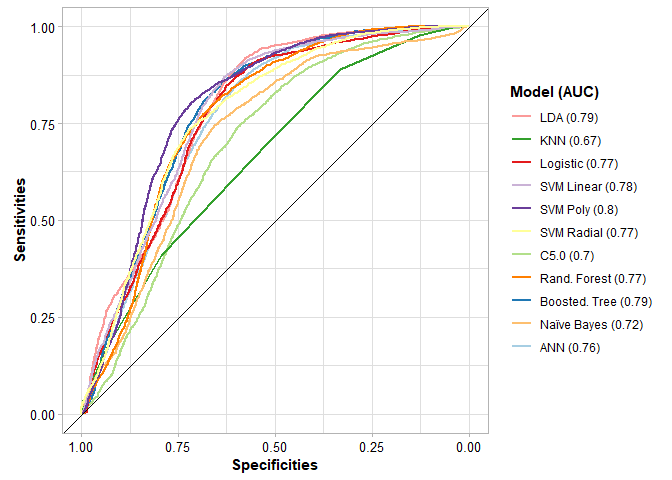
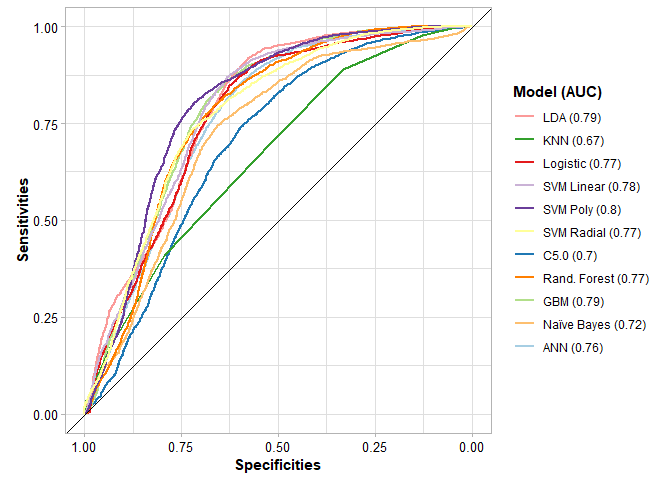
misspeling

diff --git a/Backed-flakes-identification-in-Discoid-and-RC-Levallois.md b/Backed-flakes-identification-in-Discoid-and-RC-Levallois.md
@@ -1049,7 +1049,7 @@ Roc_Curve <- rbind(Roc_Curve, temp)
 # Boosted tree
 temp <- pROC::roc(Boost_Tree$pred$obs, Boost_Tree$pred$Levallois)
 temp <- cbind(tibble(temp$specificities, temp$sensitivities),
-              Model = "Boost Tree")
+              Model = "GBM")
 Roc_Curve <- rbind(Roc_Curve, temp)
 
 # Boosted tree
@@ -1074,7 +1074,7 @@ aucs <- c(
   paste0("SVM Radial (", round(pROC::auc(SVM_Radial$pred$obs, SVM_Radial$pred$Levallois),2) ,")"),
   paste0("C5.0 (", round(pROC::auc(C50_Mod$pred$obs, C50_Mod$pred$Levallois),2) ,")"),
   paste0("Rand. Forest (", round(pROC::auc(RF_Model$pred$obs, RF_Model$pred$Levallois),2) ,")"),
-  paste0("Boosted. Tree (", round(pROC::auc(Boost_Tree$pred$obs, Boost_Tree$pred$Levallois),2) ,")"),
+  paste0("GBM (", round(pROC::auc(Boost_Tree$pred$obs, Boost_Tree$pred$Levallois),2) ,")"),
   paste0("Naïve Bayes (", round(pROC::auc(NaiB_Model$pred$obs, NaiB_Model$pred$Levallois),2) ,")"),
   paste0("ANN (", round(pROC::auc(mlp_Mod$pred$obs, mlp_Mod$pred$Levallois),2) ,")"))
   
@@ -1091,7 +1091,7 @@ Roc_Curve %>%
   scale_color_brewer(palette = "Paired",
                      breaks = c("LDA", "KNN", "Log. Reg.",
                                 "SVML", "SVMP", "SVMR", "C5.0",
-                                "Rand. Forest", "Boost Tree",
+                                "Rand. Forest", "GBM",
                                 "Naïve Bayes", "ANN"),
                      labels = aucs) +
   labs(colour = "Model (AUC)") +
